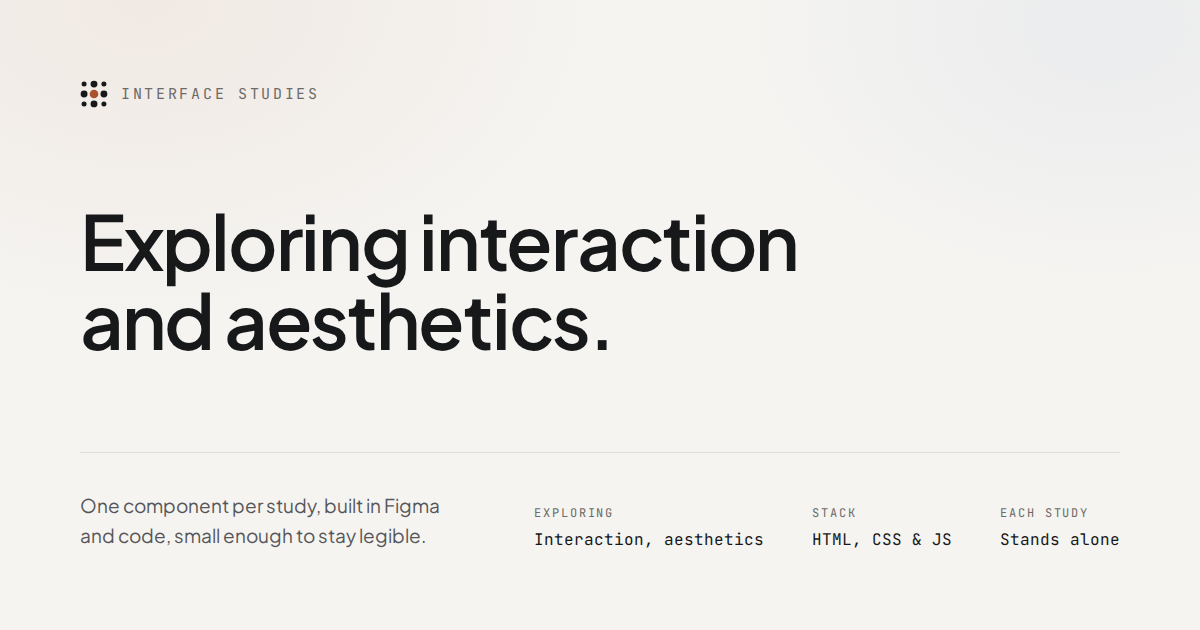
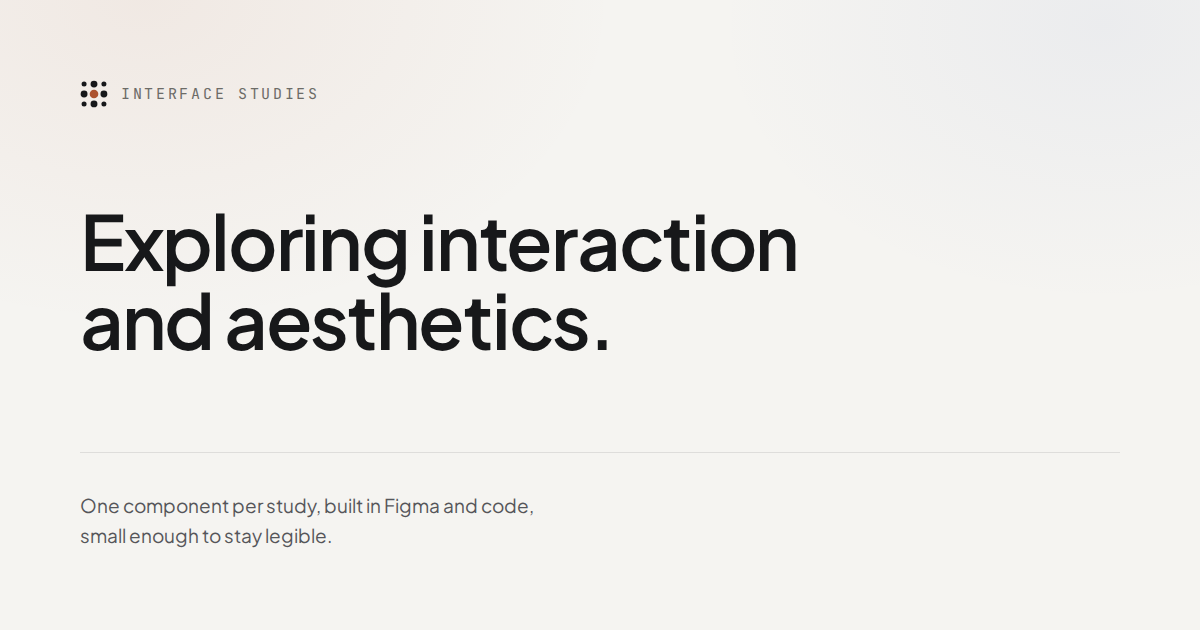
The social card says the headline and the lede, and nothing else
Its foot row was three facts chosen because they do not move — Exploring,
Stack, Each study — and that was all they had going for them. Exploring
repeated the headline, Each study only made sense to someone who had read
this repo's rules, and Stack stopped being the whole story once studies
began getting React adapters. Nothing replaces it: the domain was tried at
bottom right, and every unfurl prints it under the card already.

The lede now breaks by hand at its comma. Left to a measure it broke as
"...small enough / to stay legible." and, balanced, as "...built in Figma /
and code", splitting the phrase the sentence turns on; a fixed 1200x630
image has no width to reflow into, so the <br /> costs nothing.

diff --git a/og.html b/og.html
@@ -20,7 +20,7 @@
        og:image:width and og:image:height tags in index.html declare.
 
        Look at the PNG before shipping it. A Chromium 141 build rendered this
-       with a white band across the bottom 87px and the foot row cut through:
+       with a white band across the bottom 87px and the lede cut through:
        its --headless counts a window frame inside --window-size, so the page
        is laid out shorter than the image it is saved into. chrome-headless-shell
        takes the same flags and sizes the viewport to the window, which is what
@@ -119,10 +119,10 @@
       .logo__dot { fill: var(--ink); }
       .logo__core { fill: var(--accent); }
 
-      /* The title takes the slack, so the rule and the row beneath it sit at
+      /* The title takes the slack, so the rule and the lede beneath it sit at
          the same height whatever the headline runs to. A card is cropped by
-         whoever is showing it; the bottom row staying put matters more than
-         the title starting at a fixed y. */
+         whoever is showing it; the bottom staying put matters more than the
+         title starting at a fixed y. */
       .title {
         flex: 1;
         margin: 0;
@@ -143,56 +143,19 @@
         margin-bottom: 38px;
       }
 
-      .foot {
-        display: flex;
-        align-items: flex-end;
-        justify-content: space-between;
-        gap: 48px;
-      }
-
-      /* Measured, not set to a reading measure: this is a caption under a
-         headline at card size, and a last line carrying two words reads as an
-         accident. It broke in three even lines while the lede was the long
-         one; the current lede takes two. Re-check it when the lede changes. */
+      /* Broken by hand, at the comma, which is where the sentence pauses. The
+         card is a fixed 1200x630 image rather than a page, so there is no
+         width to reflow into and nothing a <br /> could go wrong at; left to
+         the measure it broke as "...small enough / to stay legible." and, with
+         balance, as "...built in Figma / and code", splitting the one phrase
+         the sentence turns on. Re-check it when the lede changes. */
       .lede {
         margin: 0;
-        max-width: 42ch;
         font-size: 19px;
         line-height: 1.55;
         color: var(--ink-soft);
       }
 
-      .meta {
-        margin: 0;
-        display: flex;
-        gap: 48px;
-      }
-
-      .meta__item {
-        display: flex;
-        flex-direction: column;
-        gap: 8px;
-      }
-
-      .meta__key {
-        font-family: var(--mono);
-        font-size: 12px;
-        letter-spacing: 0.16em;
-        text-transform: uppercase;
-        color: var(--muted);
-      }
-
-      /* nowrap because these are labels rather than prose, and the row has
-         the width for them: "One component" is three characters longer than
-         the "One detail" it replaced, which was enough to wrap all three
-         values onto two lines each and make the row read as a paragraph. */
-      .meta__val {
-        margin: 0;
-        white-space: nowrap;
-        font-family: var(--mono);
-        font-size: 16px;
-        color: var(--ink);
-      }
     </style>
   </head>
 
@@ -217,48 +180,23 @@
 
       <div class="rule"></div>
 
-      <div class="foot">
-        <!-- Word for word the index's lede. It used to be the index's less
-           "with no framework", because the old sentence ran to three lines at
-           this size; the current one fits, so the two are the same string
-           again and there is one less difference to remember. The hint
-           sentence after it on the page is not here: it tells a reader how to
-           work the rail, and there is no rail in a PNG. -->
-        <p class="lede">
-          One component per study, built in Figma and&nbsp;code, small enough
-          to stay legible.
-        </p>
+      <!-- Word for word the index's lede. The hint sentence after it on the
+         page is not here: it tells a reader how to work the rail, and there
+         is no rail in a PNG.
 
-        <!-- Not the masthead's meta row any more, and it cannot be. The page
-           now states a count and the newest study's date, both of which it
-           reads off the cards at runtime — bake either into a PNG and it is
-           wrong from the next study onward, which is why Studies was left off
-           here to begin with. So this row states the three things about the
-           set that do not move. It is the one place og.html and index.html
-           are allowed to differ; the h1 and the lede above still have to
-           match word for word.
-
-           The first slot said "Scope — One component", which framed the set
-           by what it holds itself to, the way the old lede's "builds just
-           that" did. It states what the studies are about instead. That
-           repeats a word of the headline above it, which is the cost, and
-           cheap against a card whose only three facts were a bound, a stack
-           and a property of the folders. -->
-        <dl class="meta">
-          <div class="meta__item">
-            <dt class="meta__key">Exploring</dt>
-            <dd class="meta__val">Interaction, aesthetics</dd>
-          </div>
-          <div class="meta__item">
-            <dt class="meta__key">Stack</dt>
-            <dd class="meta__val">HTML, CSS &amp; JS</dd>
-          </div>
-          <div class="meta__item">
-            <dt class="meta__key">Each study</dt>
-            <dd class="meta__val">Stands alone</dd>
-          </div>
-        </dl>
-      </div>
+         Nothing sits beside it. There was a row of three facts here —
+         Exploring, Stack, Each study — chosen because they were the things
+         about the set that do not move: a count or a date baked into a PNG is
+         wrong from the next study onward. Not moving was all they had going
+         for them. Exploring repeated the headline, Each study said something
+         only this repo's own rules make sense of, and Stack stopped being the
+         whole story once studies began getting React adapters. A card is
+         read at a glance, and every unfurl prints the domain under it
+         already. -->
+      <p class="lede">
+        One component per study, built in Figma and code,<br />
+        small enough to stay legible.
+      </p>
     </div>
   </body>
 </html>

diff --git a/CLAUDE.md b/CLAUDE.md
@@ -1182,22 +1182,16 @@ lede — so a headline change means editing `index.html`, then `og.html`, then
 re-rendering, and skipping the last two leaves a link that pastes as one page
 and opens as another.
 
-Its `Stack` row is shorter than the footer's on purpose, and that is not a
-drift to correct. The page says `HTML, CSS and vanilla JS, no build step`,
-where `vanilla` carries the no-framework claim and there is room for it. The
-card says `HTML, CSS & JS`, because the card is 1200x630 of fixed width read
-at a glance in a link unfurl: measured, `vanilla` widens the meta block by
-120px, takes that width off the lede's column and wraps it from two lines to
-three. Naming the JS at all is the honest part, and it survives the cut.
-
-Its meta row is the exception, and deliberately not a copy: the masthead's row
-is the newest study's date, read off the cards at runtime, and baked into a PNG
-that is wrong from the next study onward. The card states three things about
-the set that do not move instead — what the studies explore, what they are made
-of, and that each one stands alone. The first of those used to be a scope
-("One component"), which framed the set by what it holds itself to rather than
-by what it is about; that is the register the masthead and the footer were both
-taken out of, and the card was the last thing left in it.
+It has no meta row, and that is deliberate. The masthead's row is the newest
+study's date, read off the cards at runtime, and baked into a PNG it is wrong
+from the next study onward — so is a count. The card carried three facts that
+do not move instead, Exploring, Stack and Each study, and not moving was all
+they had going for them: one repeated the headline, one only made sense to
+someone who had read these rules, and the stack stopped being the whole story
+once studies began getting React adapters. So below the rule is the lede and
+nothing else, broken by hand at its comma, since a fixed-size image has no
+width to reflow into. The domain is not on it either: every unfurl prints it
+under the card already.
 
 The rail ends on its own rule: `.rail__progress` is both the scroll position
 and the line under the cards, so its track is always drawn and only the fill is
